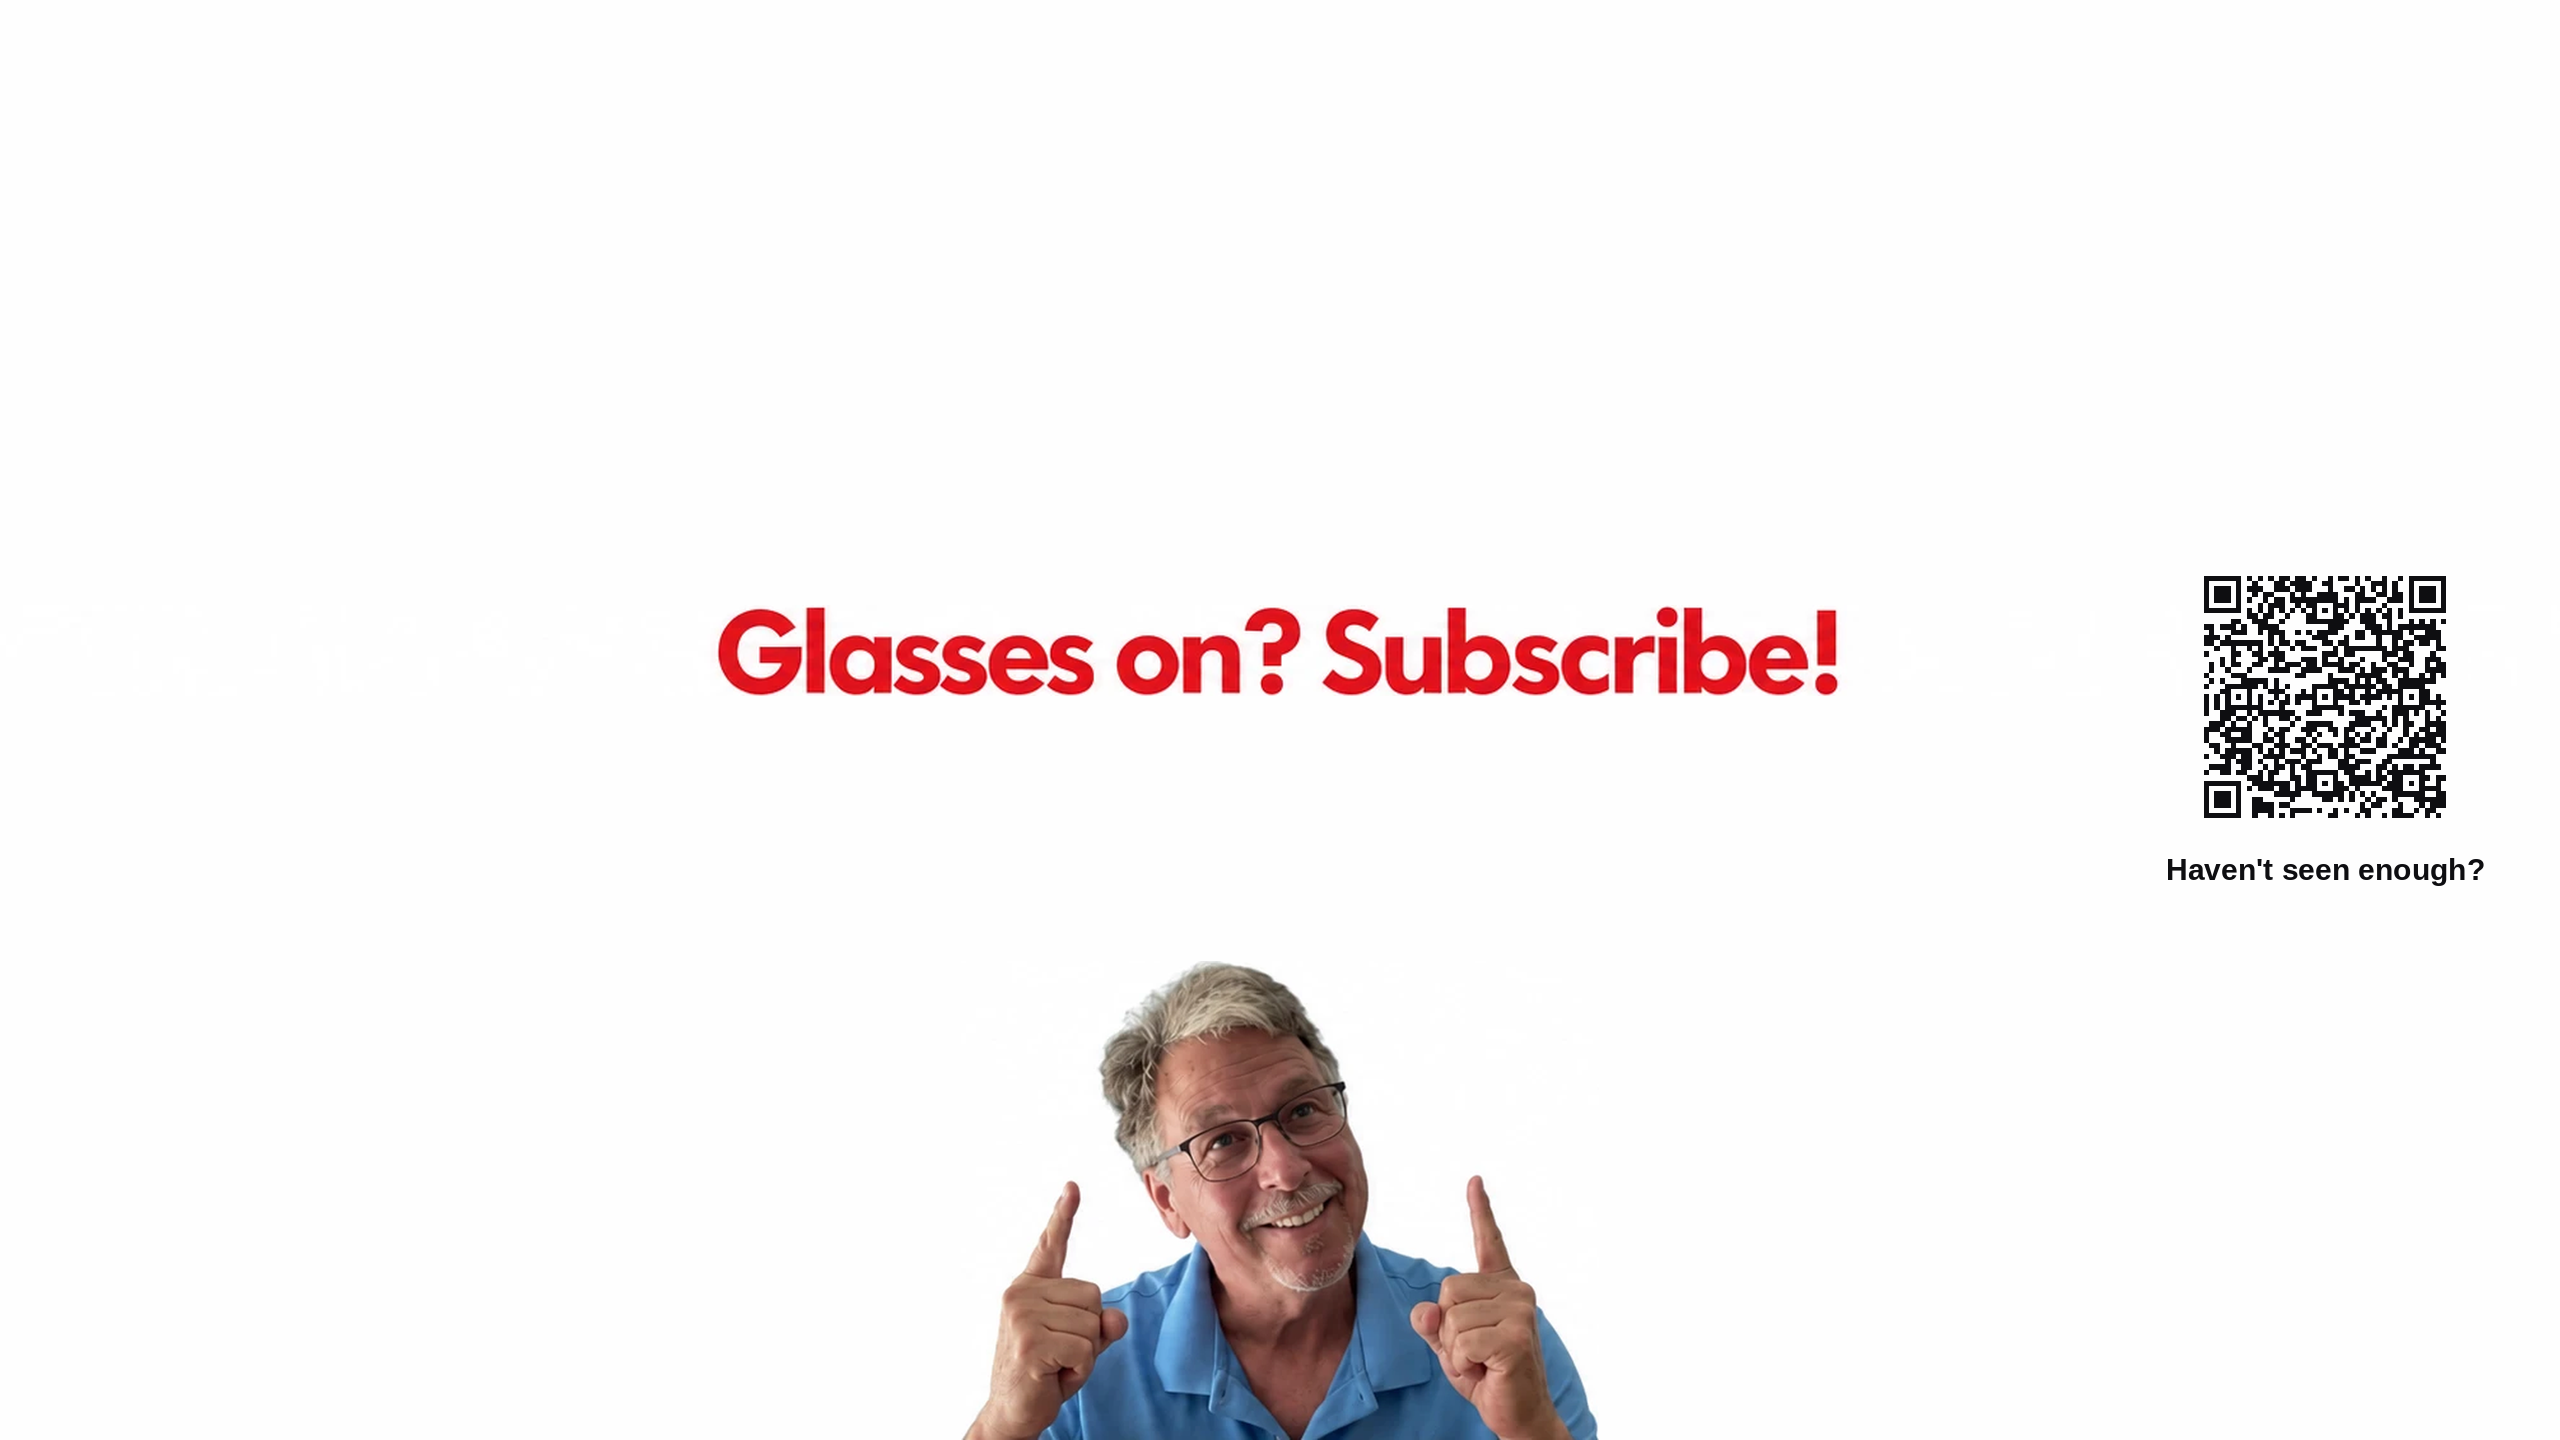
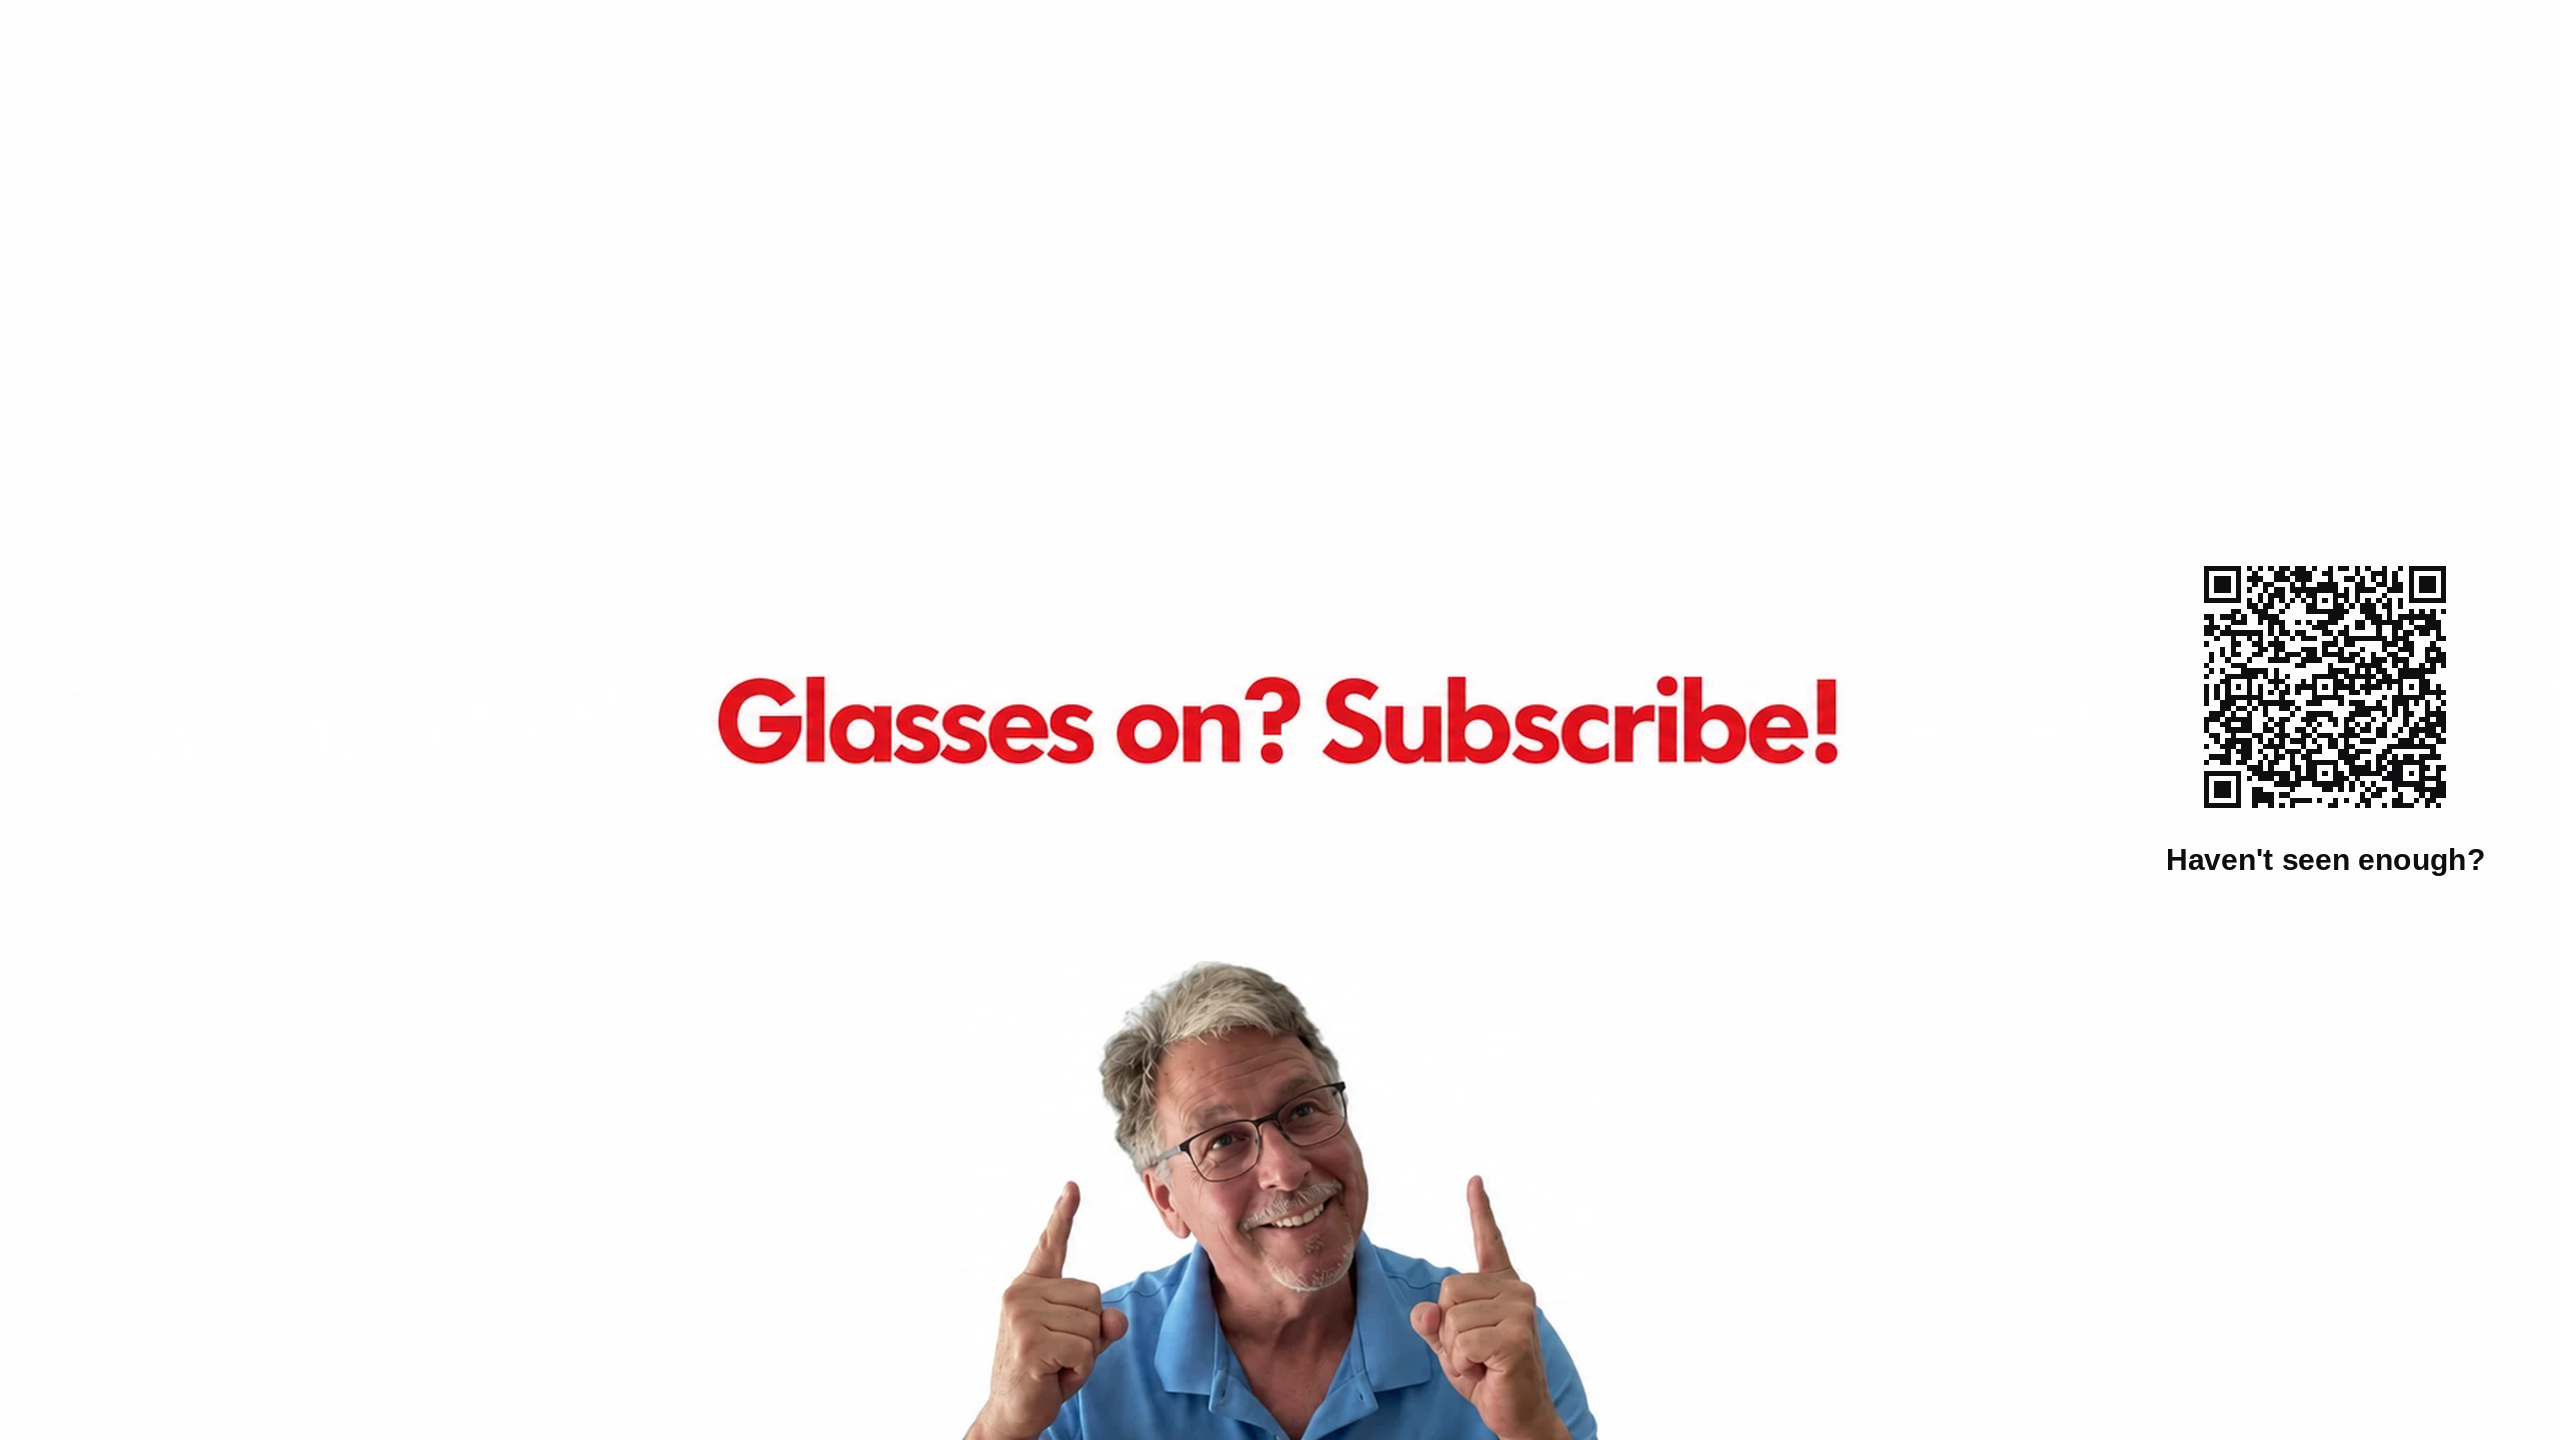
Tekst en QR op dezelfde middenlijn
Guido zag het op zijn laptop: de tekst stond scheef ten opzichte van de
QR. Op zijn telefoon niet, want daar is de QR niet in beeld en is er
niets om het mee te vergelijken. Nagemeten en hij had gelijk:

  midden van de zichtbare band   719
  midden van de tekst            650   ->  69px te hoog
  midden van het QR-blok         730   ->  11px te laag
                                       ->  80px onderling

Twee losse oorzaken, allebei van mij.

De tekst liet ik staan waar hij in de aanlevering stond, in plaats van
hem op de middenlijn van de band te zetten. Nu gecentreerd op y 719.

Het QR-blok werd als rechthoek gecentreerd, maar een QR draagt een
stille rand mee die als leegte leest — optisch zakt het blok daardoor
weg. Nu wordt het op een eigen laag gebouwd en gecentreerd op de
omhullende van wat er werkelijk donker is, dus onafhankelijk van hoe
breed die rand toevallig is.

Resultaat: tekst op 719.5, QR op 720.5. Eén pixel uit elkaar.

De QR is opnieuw teruggescand en het mobiele venster bevat nog steeds
alleen de tekst.

Claude-Session: https://claude.ai/code/session_01RsYYJd5HAz7rAViqqnidRB

Changed region(s): [[0.2812, 0.4062, 0.7188, 0.5312], [0.8438, 0.375, 0.9688, 0.5625], [0.8438, 0.5938, 0.9688, 0.625]]

diff --git a/.github/scripts/add_banner_qr.py b/.github/scripts/add_banner_qr.py
@@ -89,12 +89,24 @@ def compose(src: Path, qr_path: Path, caption: str, dest: Path,
         qr = Image.open(qr_path).convert("RGB").resize(
             (PLAIN_QR_SIZE, PLAIN_QR_SIZE), Image.NEAREST)
         qr = recolour(qr, ground)
-        block_h = PLAIN_QR_SIZE + PLAIN_CAPTION_GAP
-        top = (H - block_h) // 2
+
+        # Build the block on its own layer, then centre it by the bounding box
+        # of what is actually dark. A QR carries a quiet zone that reads as
+        # empty space, so centring the pasted rectangle leaves the block
+        # sitting visibly low against anything aligned beside it.
+        pad = 60
+        layer = Image.new("RGB", (PLAIN_QR_SIZE + pad * 2,
+                                  PLAIN_QR_SIZE + PLAIN_CAPTION_GAP + pad * 2), ground)
+        ld = ImageDraw.Draw(layer)
+        layer.paste(qr, (pad, pad))
+        ld.text((layer.width / 2, pad + PLAIN_QR_SIZE + PLAIN_CAPTION_GAP / 2 + 6),
+                caption, font=font, fill=INK, anchor="mm")
+
+        a = np.array(layer.convert("L"))
+        ys, xs = np.where(a < 200)
         cx = W - CARD_RIGHT_MARGIN - CARD_W // 2
-        im.paste(qr, (cx - PLAIN_QR_SIZE // 2, top))
-        d.text((cx, top + PLAIN_QR_SIZE + PLAIN_CAPTION_GAP // 2 + 6), caption,
-               font=font, fill=INK, anchor="mm")
+        im.paste(layer, (cx - (xs.min() + xs.max()) // 2,
+                         H // 2 - (ys.min() + ys.max()) // 2))
 
     if guides:  # a throwaway proof, never the file you upload
         g = ImageDraw.Draw(im)
